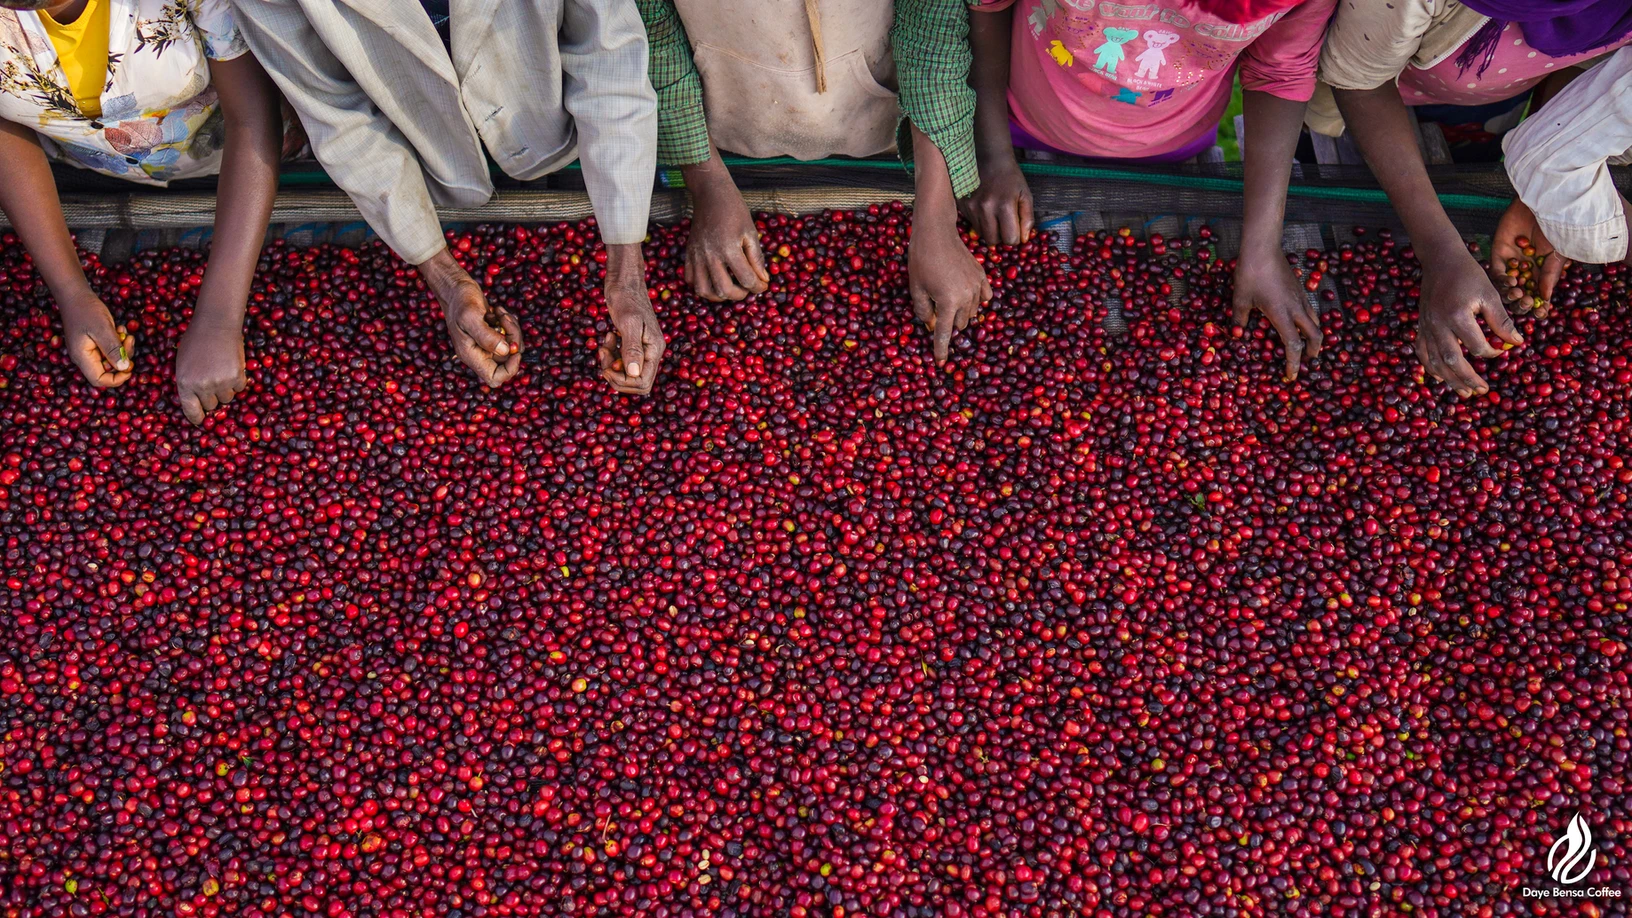
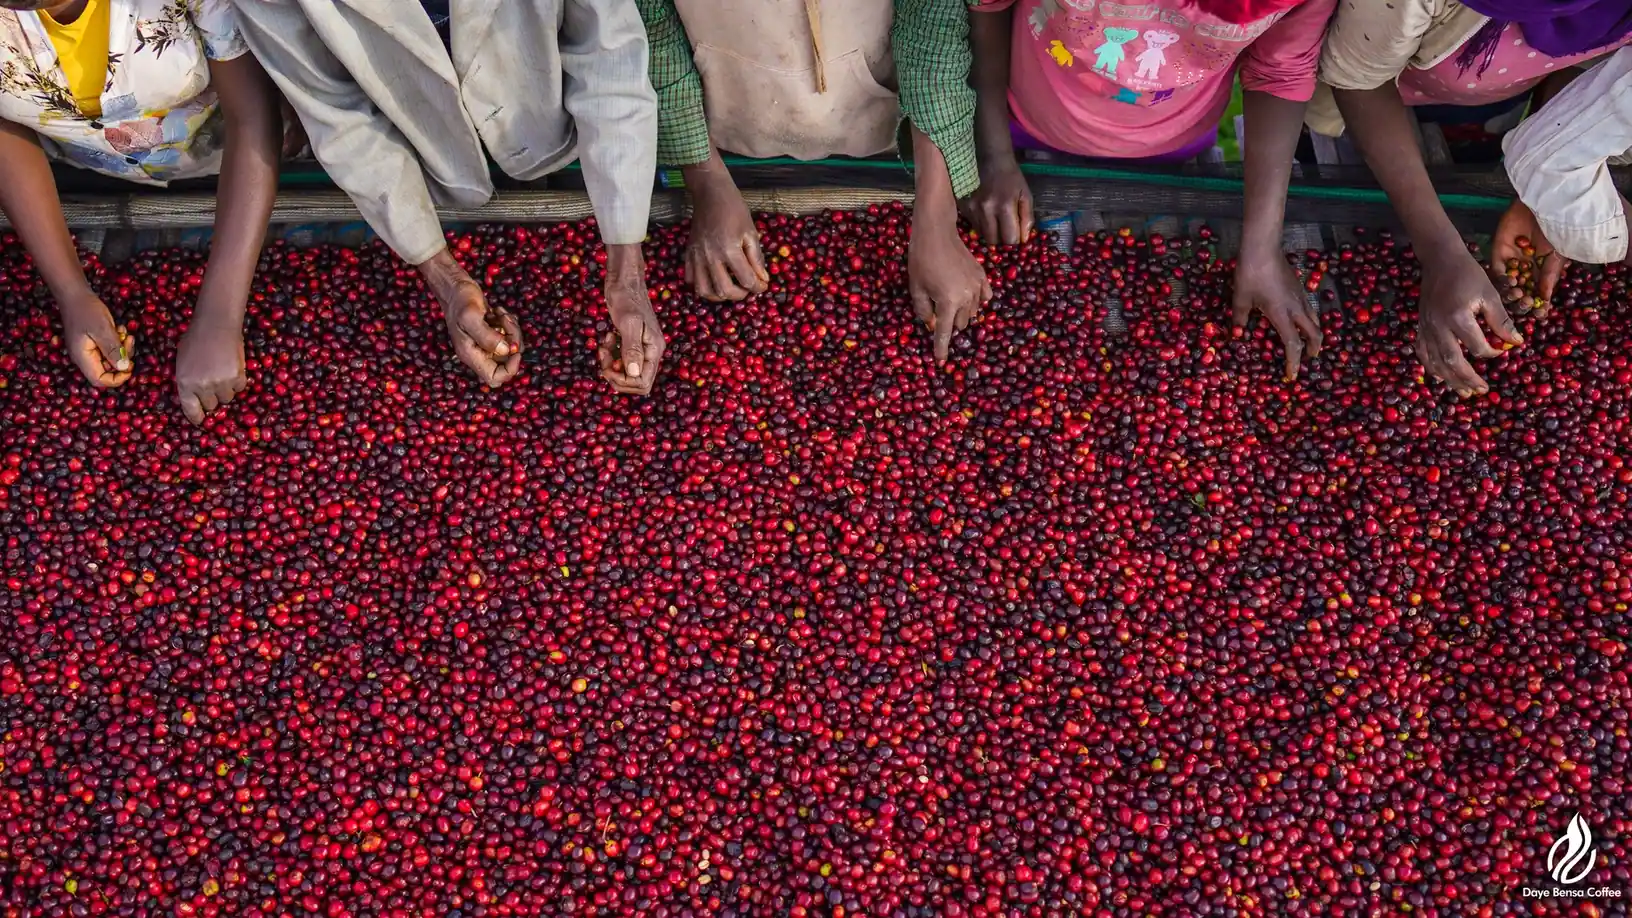
Add files via upload

diff --git a/components/Header.tsx b/components/Header.tsx
@@ -68,6 +68,9 @@ export function Header() {
               <a href="#" aria-label="LinkedIn" className="text-[#0077B5] hover:opacity-80 transition-opacity">
                 <svg className="w-4 h-4" fill="currentColor" viewBox="0 0 24 24"><path d="M16 8a6 6 0 0 1 6 6v7h-4v-7a2 2 0 0 0-2-2 2 2 0 0 0-2 2v7h-4v-7a6 6 0 0 1 6-6z"></path><rect x="2" y="9" width="4" height="12"></rect><circle cx="4" cy="4" r="2"></circle></svg>
               </a>
+              <a href="#" aria-label="YouTube" className="text-[#FF0000] hover:opacity-80 transition-opacity">
+                <svg className="w-4 h-4" fill="currentColor" viewBox="0 0 24 24"><path d="M23.498 6.186a3.016 3.016 0 0 0-2.122-2.136C19.505 3.545 12 3.545 12 3.545s-7.505 0-9.377.505A3.017 3.017 0 0 0 .502 6.186C0 8.07 0 12 0 12s0 3.93.502 5.814a3.016 3.016 0 0 0 2.122 2.136c1.871.505 9.376.505 9.376.505s7.505 0 9.377-.505a3.015 3.015 0 0 0 2.122-2.136C24 15.93 24 12 24 12s0-3.93-.502-5.814zM9.545 15.568V8.432L15.818 12l-6.273 3.568z"/></svg>
+              </a>
             </div>
           </div>
 
@@ -78,9 +81,9 @@ export function Header() {
       <div className="container mx-auto px-6 py-5 flex justify-between items-center relative z-50">
         <a href="#/" onClick={closeMenu} className="flex items-center gap-3 group z-20">
             <img 
-              src="/logos.png" 
+              src="/logos.webp" 
               alt="DEE COFFEE" 
-              className="h-12 md:h-14 lg:h-20 w-auto object-contain transform transition-transform duration-300 group-hover:scale-105" 
+              className="h-12 md:h-14 w-auto object-contain transform transition-transform duration-300 group-hover:scale-105" 
             />
             <span className="font-display font-bold text-xl md:text-2xl tracking-wide text-white drop-shadow-md transition-colors duration-300">
               DEE COFFEE
@@ -201,7 +204,8 @@ export function Header() {
             </a>
           </div>
           
-          <div className="flex justify-center gap-8 pt-6 border-t border-gray-800">
+          {/* Mobile Socials in Menu - Vibrant Colors by Default */}
+          <div className="flex justify-center gap-8 pt-6 border-t border-gray-800 flex-wrap">
              <a href="#" className="text-[#1877F2] hover:opacity-80 transition-opacity">
                <svg className="w-6 h-6" fill="currentColor" viewBox="0 0 24 24"><path d="M18 2h-3a5 5 0 0 0-5 5v3H7v4h3v8h4v-8h3l1-4h-4V7a1 1 0 0 1 1-1h3z"></path></svg>
              </a>
@@ -213,6 +217,9 @@ export function Header() {
              </a>
              <a href="#" className="text-[#0077B5] hover:opacity-80 transition-opacity">
                 <svg className="w-6 h-6" fill="currentColor" viewBox="0 0 24 24"><path d="M16 8a6 6 0 0 1 6 6v7h-4v-7a2 2 0 0 0-2-2 2 2 0 0 0-2 2v7h-4v-7a6 6 0 0 1 6-6z"></path><rect x="2" y="9" width="4" height="12"></rect><circle cx="4" cy="4" r="2"></circle></svg>
+             </a>
+             <a href="#" className="text-[#FF0000] hover:opacity-80 transition-opacity">
+                <svg className="w-6 h-6" fill="currentColor" viewBox="0 0 24 24"><path d="M23.498 6.186a3.016 3.016 0 0 0-2.122-2.136C19.505 3.545 12 3.545 12 3.545s-7.505 0-9.377.505A3.017 3.017 0 0 0 .502 6.186C0 8.07 0 12 0 12s0 3.93.502 5.814a3.016 3.016 0 0 0 2.122 2.136c1.871.505 9.376.505 9.376.505s7.505 0 9.377-.505a3.015 3.015 0 0 0 2.122-2.136C24 15.93 24 12 24 12s0-3.93-.502-5.814zM9.545 15.568V8.432L15.818 12l-6.273 3.568z"/></svg>
              </a>
           </div>
         </div>

diff --git a/components/Footer.tsx b/components/Footer.tsx
@@ -10,11 +10,10 @@ export function Footer() {
       <div className="container mx-auto px-6 py-12">
         <Reveal>
           <div className="grid md:grid-cols-4 gap-8">
-            {/* Logo & Tagline */}
             <div>
               <a href="#/" className="inline-block mb-4">
                   <img 
-                    src="/logos.png" 
+                    src="/logos.webp" 
                     alt="DEE COFFEE" 
                     className="h-20 w-auto object-contain filter drop-shadow-sm" 
                   />
@@ -23,7 +22,6 @@ export function Footer() {
               <p className="text-sm leading-relaxed max-w-xs">{t('footer.tagline')}</p>
             </div>
 
-            {/* Shop Links - Refined for clarity between Green and Roasted */}
             <div>
               <h4 className="font-bold text-[#2C1810] dark:text-white mb-4 tracking-wider">{t('footer.shop.title')}</h4>
               <ul className="space-y-2">
@@ -34,7 +32,6 @@ export function Footer() {
               </ul>
             </div>
 
-            {/* Company Links */}
             <div>
               <h4 className="font-bold text-[#2C1810] dark:text-white mb-4 tracking-wider">{t('footer.about.title')}</h4>
               <ul className="space-y-2">
@@ -44,10 +41,9 @@ export function Footer() {
               </ul>
             </div>
 
-            {/* Connect Section - Vibrant Icons by Default */}
             <div>
               <h4 className="font-bold text-[#2C1810] dark:text-white mb-4 tracking-wider">{t('footer.follow')}</h4>
-              <div className="flex items-center gap-4">
+              <div className="flex items-center gap-4 flex-wrap">
                 <a href="#" aria-label="Facebook" className="text-[#1877F2] hover:opacity-80 transition-opacity">
                   <svg className="w-5 h-5" fill="currentColor" viewBox="0 0 24 24"><path d="M18 2h-3a5 5 0 0 0-5 5v3H7v4h3v8h4v-8h3l1-4h-4V7a1 1 0 0 1 1-1h3z"></path></svg>
                 </a>
@@ -59,6 +55,9 @@ export function Footer() {
                 </a>
                 <a href="#" aria-label="LinkedIn" className="text-[#0077B5] hover:opacity-80 transition-opacity">
                   <svg className="w-5 h-5" fill="currentColor" viewBox="0 0 24 24"><path d="M16 8a6 6 0 0 1 6 6v7h-4v-7a2 2 0 0 0-2-2 2 2 0 0 0-2 2v7h-4v-7a6 6 0 0 1 6-6z"></path><rect x="2" y="9" width="4" height="12"></rect><circle cx="4" cy="4" r="2"></circle></svg>
+                </a>
+                <a href="#" aria-label="YouTube" className="text-[#FF0000] hover:opacity-80 transition-opacity">
+                  <svg className="w-5 h-5" fill="currentColor" viewBox="0 0 24 24"><path d="M23.498 6.186a3.016 3.016 0 0 0-2.122-2.136C19.505 3.545 12 3.545 12 3.545s-7.505 0-9.377.505A3.017 3.017 0 0 0 .502 6.186C0 8.07 0 12 0 12s0 3.93.502 5.814a3.016 3.016 0 0 0 2.122 2.136c1.871.505 9.376.505 9.376.505s7.505 0 9.377-.505a3.015 3.015 0 0 0 2.122-2.136C24 15.93 24 12 24 12s0-3.93-.502-5.814zM9.545 15.568V8.432L15.818 12l-6.273 3.568z"/></svg>
                 </a>
               </div>
             </div>

diff --git a/components/Featured.tsx b/components/Featured.tsx
@@ -5,14 +5,14 @@ import { Reveal } from './Reveal';
 // Updated to use image placeholders. 
 // Replace the 'image' URLs below with your actual logo file paths (e.g., '/assets/logos/organic.png')
 const certifications = [
-  { id: 'org', label: 'RAINFOREST ALLIANCE', image: '1.png' },
-  { id: 'ft', label: 'Ethiopian national Coffee Assn', image: '2.png' },
-  { id: 'rfa', label: 'E.C.X', image: '3.png' },
-  { id: 'eca', label: 'African fine Coffee Assn', image: '4.jpg' },
-  { id: 'sca', label: 'Ethiopian Coffee Assn', image: '5.png' },
-  { id: 'cq', label: 'USDA ORGANIC', image: '6.png' },
+  { id: 'org', label: 'RAINFOREST ALLIANCE', image: '1.webp' },
+  { id: 'ft', label: 'Ethiopian national Coffee Assn', image: '2.webp' },
+  { id: 'rfa', label: 'E.C.X', image: '3.webp' },
+  { id: 'eca', label: 'African fine Coffee Assn', image: '4.webp' },
+  { id: 'sca', label: 'Ethiopian Coffee Assn', image: '5.webp' },
+  { id: 'cq', label: 'USDA ORGANIC', image: '6.webp' },
   { id: 'jas', label: 'JR petrolium', image: '7.png' },
-  { id: 'eu', label: 'EU Organic', image: '1.png' },
+  { id: 'eu', label: 'EU Organic', image: '3.webp' },
 ];
 
 const infiniteCertifications = [...certifications, ...certifications, ...certifications];

diff --git a/components/OurStory.tsx b/components/OurStory.tsx
@@ -12,7 +12,7 @@ export function OurStory() {
       <div className="relative h-[60vh] flex items-center justify-center">
          <div className="absolute inset-0 z-0">
              <img 
-              src="/Company.jpg"
+              src="/Company.webp"
                alt="Ethiopian Landscape" 
                className="w-full h-full object-cover"
              />
@@ -32,7 +32,7 @@ export function OurStory() {
             <Reveal>
                <div className="relative rounded-lg overflow-hidden shadow-2xl group">
                   <img 
-                    src="OUR COFFEE.jpg"  
+                    src="OUR COFFEE.webp"  
                     alt="Ethiopian coffee farmer"
                     className="w-full h-full object-cover transform transition-transform duration-700 group-hover:scale-110"
                   />

diff --git a/components/Process.tsx b/components/Process.tsx
@@ -103,7 +103,7 @@ export function Process() {
             title={t('process.sourcing.title')}
             description={t('process.sourcing.description')}
             detail={t('process.sourcing.detail')}
-            image="hand picking.png"
+            image="hand picking.webp"
           />
           
           <ProcessStep 
@@ -161,7 +161,7 @@ export function Process() {
       {/* Full Width Sticky/Parallax Social Responsibility Section */}
       <div 
          className="relative mt-32 min-h-[70vh] flex items-center justify-center bg-fixed bg-cover bg-center bg-no-repeat" 
-         style={{ backgroundImage: "url('/sticky.jpg')"}}
+         style={{ backgroundImage: "url('/sticky.webp')"}}
       >
          
           

diff --git a/components/HomeAbout.tsx b/components/HomeAbout.tsx
@@ -16,7 +16,7 @@ export function HomeAbout() {
              <Reveal>
                 <div className="relative z-10 rounded-lg overflow-hidden shadow-2xl">
                     <img 
-                        src="coffee.jpg"  
+                        src="coffee.webp"  
                         alt="Coffee Cupping in Ethiopia" 
                         className="w-full h-auto object-cover transform hover:scale-105 transition-transform duration-700"
                     />

diff --git a/components/Services.tsx b/components/Services.tsx
@@ -35,7 +35,7 @@ export function Services() {
             </Reveal>
             <Reveal delay={200} className="relative h-96">
                  <img 
-                    src="labratory.jpg" 
+                    src="labratory.webp" 
                     alt="Coffee bags ready for export" 
                     className="absolute inset-0 w-full h-full object-cover rounded-lg shadow-2xl"
                  />

diff --git a/components/Hero.tsx b/components/Hero.tsx
@@ -4,7 +4,7 @@ import { useTranslation } from '../contexts/LanguageContext';
 
 const slidesData = [
   {
-    image: "/slide-01.jpg",
+    image: "/slide-01.webp",
     key: "slide1"
   },
   {
@@ -12,7 +12,7 @@ const slidesData = [
     key: "slide2"
   },
   {
-    image: "/slide-03.jpg",
+    image: "/slide-03.webp",
     key: "slide3"
   }
 ];
